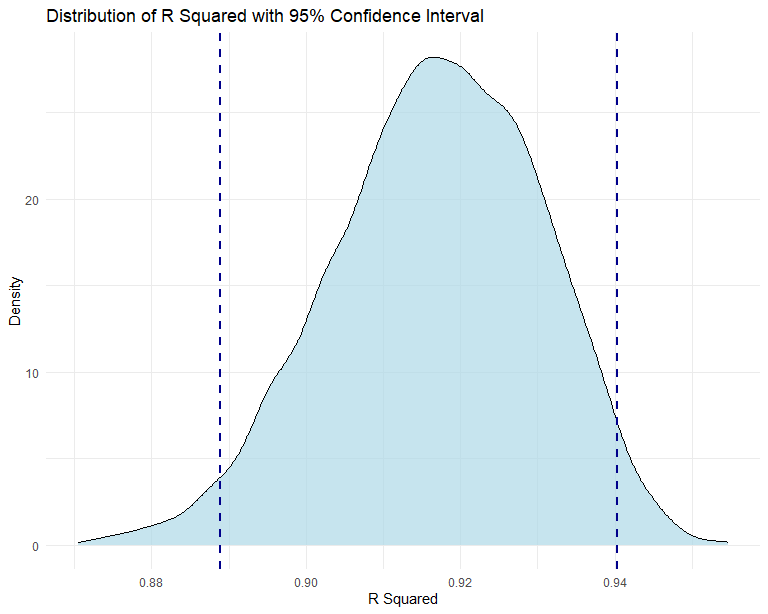
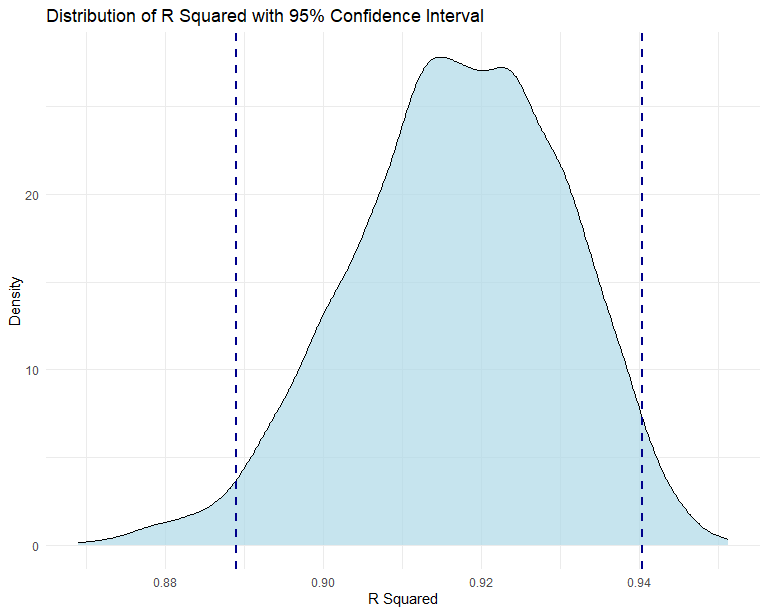
Make a violin Plot for comparision.

diff --git a/p8105_hw6_yw4251.md b/p8105_hw6_yw4251.md
@@ -1,7 +1,7 @@
-p8105_hw5_yw4251
+p8105_hw6_yw4251
 ================
 You Wu
-2023-11-12
+2023-12-02
 
 # Problem 0
 
@@ -25,6 +25,7 @@ library(tidyverse)
 ``` r
 library(purrr)
 library(ggridges)
+library(modelr)
 knitr::opts_chunk$set(
   fig.width = 8,
   fig.asp = .8,
@@ -80,7 +81,7 @@ Finish the bootstrap.
 ``` r
 bootstrap_analysis=
   weather_df|>
-  modelr::bootstrap(n = 5000)|>
+  bootstrap(n = 5000)|>
   mutate(
     models = map(strap, \(df) lm(tmax ~ tmin + prcp,data=df)),
     result = map(models, broom::tidy),
@@ -91,13 +92,13 @@ bootstrap_analysis=
   unnest(c(log_beta_product, r.squared))
 ```
 
-    ## Warning: There were 3354 warnings in `mutate()`.
+    ## Warning: There were 3402 warnings in `mutate()`.
     ## The first warning was:
     ## ℹ In argument: `log_beta_product = map(result, ~log(.x$estimate[2] *
     ##   .x$estimate[3]))`.
     ## Caused by warning in `log()`:
     ## ! NaNs produced
-    ## ℹ Run `dplyr::last_dplyr_warnings()` to see the 3353 remaining warnings.
+    ## ℹ Run `dplyr::last_dplyr_warnings()` to see the 3401 remaining warnings.
 
 ``` r
 bootstrap_analysis
@@ -106,16 +107,16 @@ bootstrap_analysis
     ## # A tibble: 5,000 × 5
     ##    strap                .id   models log_beta_product r.squared
     ##    <list>               <chr> <list>            <dbl>     <dbl>
-    ##  1 <resample [365 x 6]> 0001  <lm>             NaN        0.931
-    ##  2 <resample [365 x 6]> 0002  <lm>             NaN        0.907
-    ##  3 <resample [365 x 6]> 0003  <lm>             NaN        0.924
-    ##  4 <resample [365 x 6]> 0004  <lm>             NaN        0.903
-    ##  5 <resample [365 x 6]> 0005  <lm>             NaN        0.901
-    ##  6 <resample [365 x 6]> 0006  <lm>             NaN        0.931
-    ##  7 <resample [365 x 6]> 0007  <lm>             NaN        0.928
-    ##  8 <resample [365 x 6]> 0008  <lm>             NaN        0.905
-    ##  9 <resample [365 x 6]> 0009  <lm>              -6.45     0.918
-    ## 10 <resample [365 x 6]> 0010  <lm>             NaN        0.926
+    ##  1 <resample [365 x 6]> 0001  <lm>             NaN        0.913
+    ##  2 <resample [365 x 6]> 0002  <lm>             NaN        0.916
+    ##  3 <resample [365 x 6]> 0003  <lm>              -6.12     0.893
+    ##  4 <resample [365 x 6]> 0004  <lm>             NaN        0.906
+    ##  5 <resample [365 x 6]> 0005  <lm>             NaN        0.908
+    ##  6 <resample [365 x 6]> 0006  <lm>             NaN        0.923
+    ##  7 <resample [365 x 6]> 0007  <lm>              -7.39     0.926
+    ##  8 <resample [365 x 6]> 0008  <lm>             NaN        0.917
+    ##  9 <resample [365 x 6]> 0009  <lm>              -6.25     0.924
+    ## 10 <resample [365 x 6]> 0010  <lm>             NaN        0.913
     ## # ℹ 4,990 more rows
 
 Estimate of R^2.
@@ -126,7 +127,7 @@ quantiles
 ```
 
     ##      2.5%     97.5% 
-    ## 0.8889019 0.9402751
+    ## 0.8889831 0.9403622
 
 ``` r
 ggplot(bootstrap_analysis,aes(r.squared))+
@@ -149,8 +150,9 @@ ggplot(bootstrap_analysis,aes(r.squared))+
 
 <img src="p8105_hw6_yw4251_files/figure-gfm/unnamed-chunk-4-1.png" width="90%" />
 
-0.6708 portion of log(β̂1 \* β̂2) are NA, in which case product of β̂1 and
-β̂2 are less than 0 (β̂2 mainly).
+Estimate of log(β̂1 \* β̂2).By calculation, 0.6804 portion of log(β̂1 \*
+β̂2) are NA, in which case product of β̂1 and β̂2 are less than 0 (β̂2
+mainly).
 
 ``` r
 quantiles=quantile(bootstrap_analysis$log_beta_product,c(0.025, 0.975),na.rm=TRUE)
@@ -158,7 +160,7 @@ quantiles
 ```
 
     ##      2.5%     97.5% 
-    ## -8.936870 -4.572972
+    ## -9.420680 -4.588049
 
 ``` r
 ggplot(bootstrap_analysis,aes(log_beta_product))+
@@ -173,7 +175,7 @@ ggplot(bootstrap_analysis,aes(log_beta_product))+
   theme_minimal()
 ```
 
-    ## Warning: Removed 3354 rows containing non-finite values (`stat_density()`).
+    ## Warning: Removed 3402 rows containing non-finite values (`stat_density()`).
 
 <img src="p8105_hw6_yw4251_files/figure-gfm/unnamed-chunk-5-1.png" width="90%" />
 
@@ -237,10 +239,13 @@ number of cigarettes the mother smoked daily during pregnancy, and the
 weight gained by the mother during pregnancy in pounds. My investigation
 aims to elucidate how these variables collectively influence the birth
 weight of a child. This approach aligns with established research
-`Factors Affecting Birth Weight of a Newborn – A Community Based Study in Rural Karnataka, India`[https://www.ncbi.nlm.nih.gov/pmc/articles/PMC3390317/](Metgud%20et%20al,%202012).
+`Factors Affecting Birth Weight of a Newborn – A Community Based Study in Rural Karnataka, India`
+\[<https://www.ncbi.nlm.nih.gov/pmc/articles/PMC3390317/>\]. (Metgud et
+al., 2012)
 
 ``` r
-lm(bwt~babysex+delwt+fincome+gaweeks+malform+momage+mrace+frace+smoken+wtgain,data=bw)|>
+fit=lm(bwt~babysex+delwt+fincome+gaweeks+malform+momage+mrace+frace+smoken+wtgain,data=bw)
+fit|>
   summary()
 ```
 
@@ -277,3 +282,80 @@ lm(bwt~babysex+delwt+fincome+gaweeks+malform+momage+mrace+frace+smoken+wtgain,da
     ## Residual standard error: 421.4 on 4326 degrees of freedom
     ## Multiple R-squared:  0.3254, Adjusted R-squared:  0.323 
     ## F-statistic: 139.1 on 15 and 4326 DF,  p-value: < 2.2e-16
+
+## Key Findings from the Regression Model:
+
+**Non-Significant Predictors**: the family’s monthly income (fincome),
+the races of the mother and father, the age of the mother at the time of
+delivery(momage). **Significant Predictors**: baby’s sex (babysex),
+delivery weight (delwt), gestational weeks (gaweeks), mother’s race
+(mrace2), and smoking status (smoken).
+
+The model explains approximately 32.54% of the variability in
+birthweight (adjusted R-squared: 0.323) and is statistically significant
+(F-statistic: 139.1, p-value: \< 2.2e-16). The significant predictors
+show both positive and negative relationships with birthweight. For
+example, baby’s sex and smoking status negatively influence birthweight,
+while delivery weight, gestational weeks, and weight gain during
+pregnancy positively affect it.
+
+``` r
+bw|>
+  modelr::add_residuals(fit,var = "pred") |>
+  modelr::add_predictions(fit,var = "resid") |>
+  ggplot(aes(x=pred,y=resid))+
+  geom_point(color="#6C71C4",alpha=0.5)+
+  geom_smooth(se = F, color = "red", method = "lm")+
+  labs(x = "Fitted Values", y = "Residuals", title = "Residuals vs. Fitted Values")+
+  theme_minimal()
+```
+
+    ## `geom_smooth()` using formula = 'y ~ x'
+
+<img src="p8105_hw6_yw4251_files/figure-gfm/unnamed-chunk-8-1.png" width="90%" />
+
+Modify my model by emitting non-significant variables and fit other two
+models.
+
+``` r
+my_model=lm(bwt~babysex+delwt+gaweeks+malform+mrace+smoken+wtgain,data=bw)
+compmodel1=lm(bwt ~ gaweeks + blength, data = bw)
+compmodel2= lm(bwt ~ bhead + blength + babysex + bhead * blength + bhead * babysex + blength * babysex + bhead * blength * babysex, data = bw)
+```
+
+Make comparison in terms of the cross-validated prediction error
+
+``` r
+cv_df=
+  crossv_mc(bw,100)|>
+   mutate(
+    train = map(train, as_tibble),
+    test = map(test, as_tibble))
+
+cv_df=
+  cv_df|>
+  mutate(
+    my_model  = map(train,~lm(bwt~babysex+delwt+gaweeks+malform+mrace+smoken+wtgain, data = .x)),
+    compmodel1  = map(train, ~lm(bwt ~ gaweeks + blength, data = .x)),
+    compmodel2  = map(train, ~lm(bwt ~ bhead + blength + babysex + bhead * blength + bhead * babysex + blength * babysex + bhead * blength * babysex, data = .x)))|>
+  mutate(
+    rmse_my_model = map2_dbl(my_model, test, ~rmse(model = .x,data = .y)),
+    rmse_compmodel1 = map2_dbl(compmodel1, test, ~rmse(model = .x,data = .y)),
+    rmse_compmodel2 = map2_dbl(compmodel2, test, ~rmse(model = .x,data = .y)))
+```
+
+Make violin Plot.
+
+``` r
+cv_df |> 
+  select(starts_with("rmse")) |> 
+  pivot_longer(
+    everything(),
+    names_to = "model", 
+    values_to = "rmse",
+    names_prefix = "rmse_") |> 
+  mutate(model = fct_inorder(model)) |> 
+  ggplot(aes(x = model, y = rmse)) + geom_violin()
+```
+
+<img src="p8105_hw6_yw4251_files/figure-gfm/unnamed-chunk-11-1.png" width="90%" />
